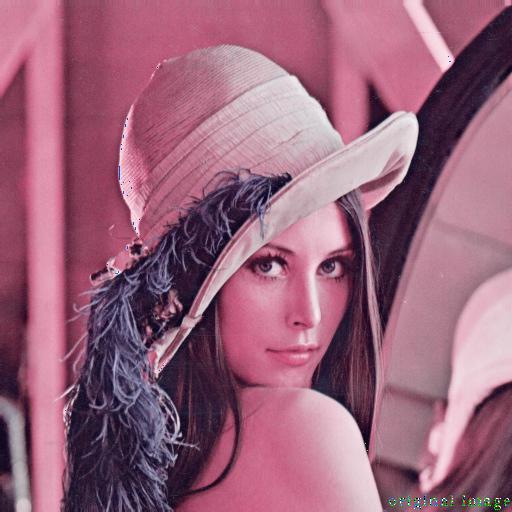
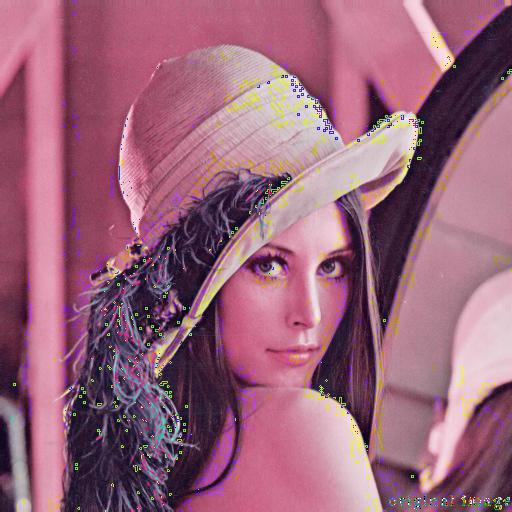
still trying to fix coloration bug

diff --git a/jpeg_coder.py b/jpeg_coder.py
@@ -43,7 +43,7 @@ class jpeg_coder:
             width_padding = width%8
             height_padding = height%8
             allpix = np.array(img, dtype=np.uint8)
-            temp = allpix[0:width-width_padding:1, 0:height-height_padding:1]
+            temp = allpix[0:height-height_padding:1, 0:width-width_padding:1]
             # load spliced image into pixeldata
             img = Image.fromarray(temp, 'RGB')
             pixels = img.load()
@@ -193,7 +193,7 @@ class jpeg_coder:
     #TODO: write the converter
     def yuv_to_rgb2(self, matrix):
         row, col, depth = matrix.shape
-        img = Image.fromarray(matrix, 'RGB')
+        #img = Image.fromarray(matrix, 'RGB')
         #img.show()
         rgb_matrix = np.zeros((row,col,depth), dtype=np.uint8)
         for i in range(row):
@@ -201,6 +201,18 @@ class jpeg_coder:
                 y = matrix[i,j][0]
                 u = matrix[i,j][1]
                 v = matrix[i,j][2]
+                #if((y + (1.140*v))> 255 ):
+                #r = 255
+                #else:
+                #    r = y + (1.140*v)
+                #if((y - (0.395*u) - (0.581*v)) > 255):
+                #    g = 255
+                #else:
+                #    g = y - (0.395*u) - (0.581*v)
+                #if((y + (2.032*u)) > 255):
+                #    b = 255
+                #else:
+                #    b = y + (2.032*u)
                 if((v + y) > 255):
                     r = 255
                 else:
@@ -548,8 +560,8 @@ class jpeg_coder:
         # recover pixels so that |J,K| == |M,N|
         #RECOUVER MAY BE THE SOURCE OF BUG
 
-        recouvered_u_matrix = self.recover_uv(decompressed_u_pixels, rows, cols)
-        recouvered_v_matrix = self.recover_uv(decompressed_v_pixels, rows, cols)
+        recouvered_u_matrix = self.recouver_uv(decompressed_u_pixels, rows, cols)
+        recouvered_v_matrix = self.recouver_uv(decompressed_v_pixels, rows, cols)
 
         recovered_u = Image.fromarray(recouvered_u_matrix)
         recovered_u.show()
@@ -594,8 +606,8 @@ class jpeg_coder:
         
         print(image_dir)
         
-        print('before compression size', before_comp_file_size/1000)
-        print(after_comp_file_size/1000)
+        print('before compression file size', before_comp_file_size/1000)
+        print('after compression file size',after_comp_file_size/1000)
 
        
         
